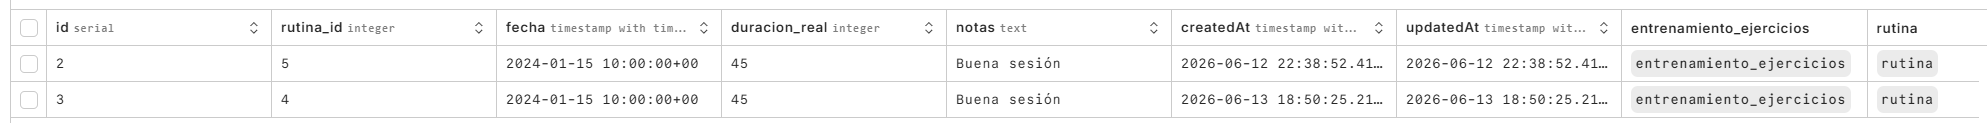
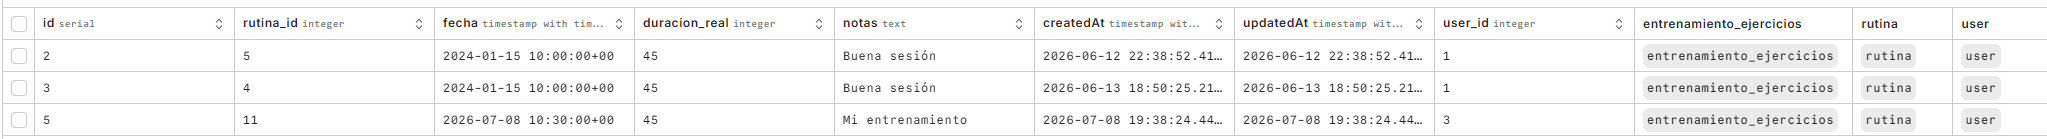
docs : agrego tabla usuarios al readme y corrijo tablas de entrenamientos y rutinas

diff --git a/README.md b/README.md
@@ -176,6 +176,12 @@ docker compose exec backend npx sequelize-cli db:seed:undo:all
   <img src="frontend\src\assets\images\tabla_rutinas.png" alt="Diagrama ER" width="1000">
 </p>
 
+- Tabla **users**
+
+<p align="center">
+  <img src="frontend\src\assets\images\tabla_users.png" alt="Diagrama ER" width="1000">
+</p>
+
 ## Autenticación y Autorización
 
 La API utiliza **JWT (JSON Web Tokens)** para autenticación. Todos los endpoints protegidos requieren el header:
